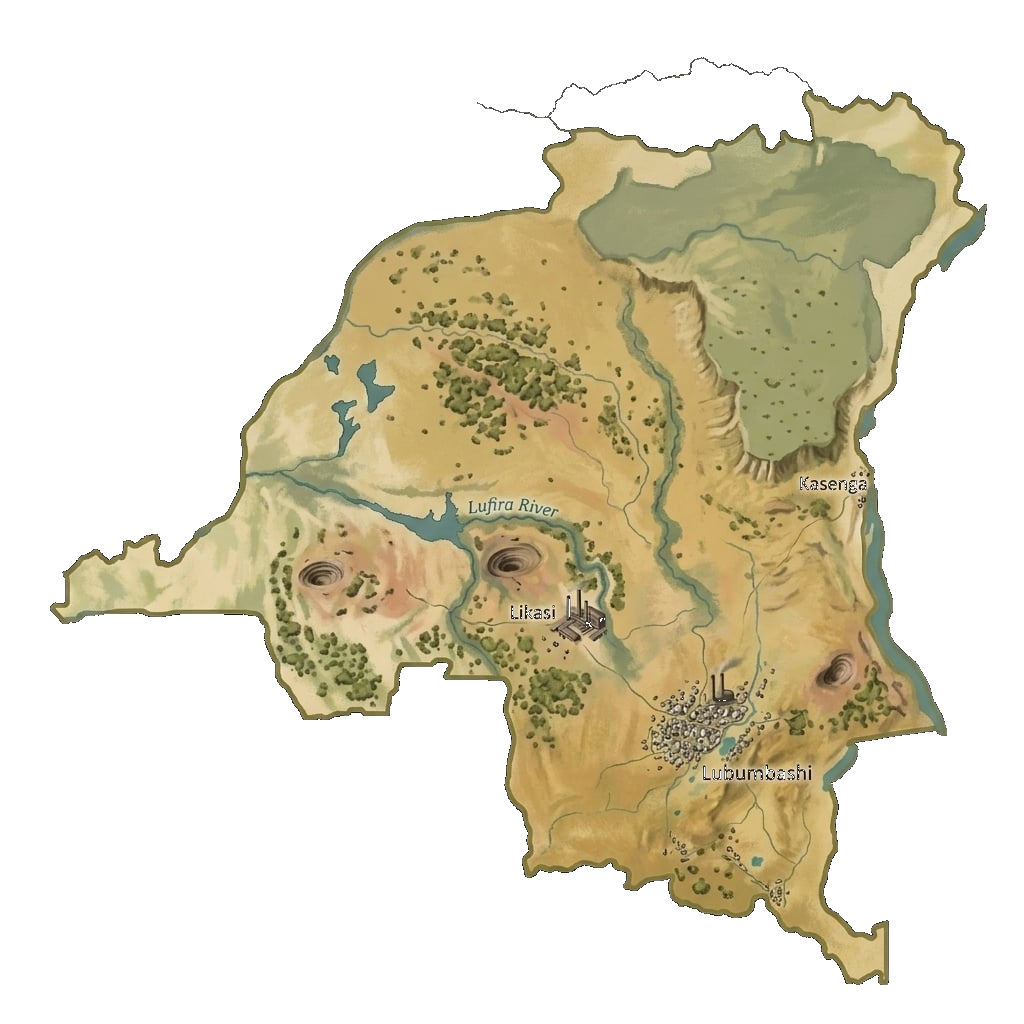
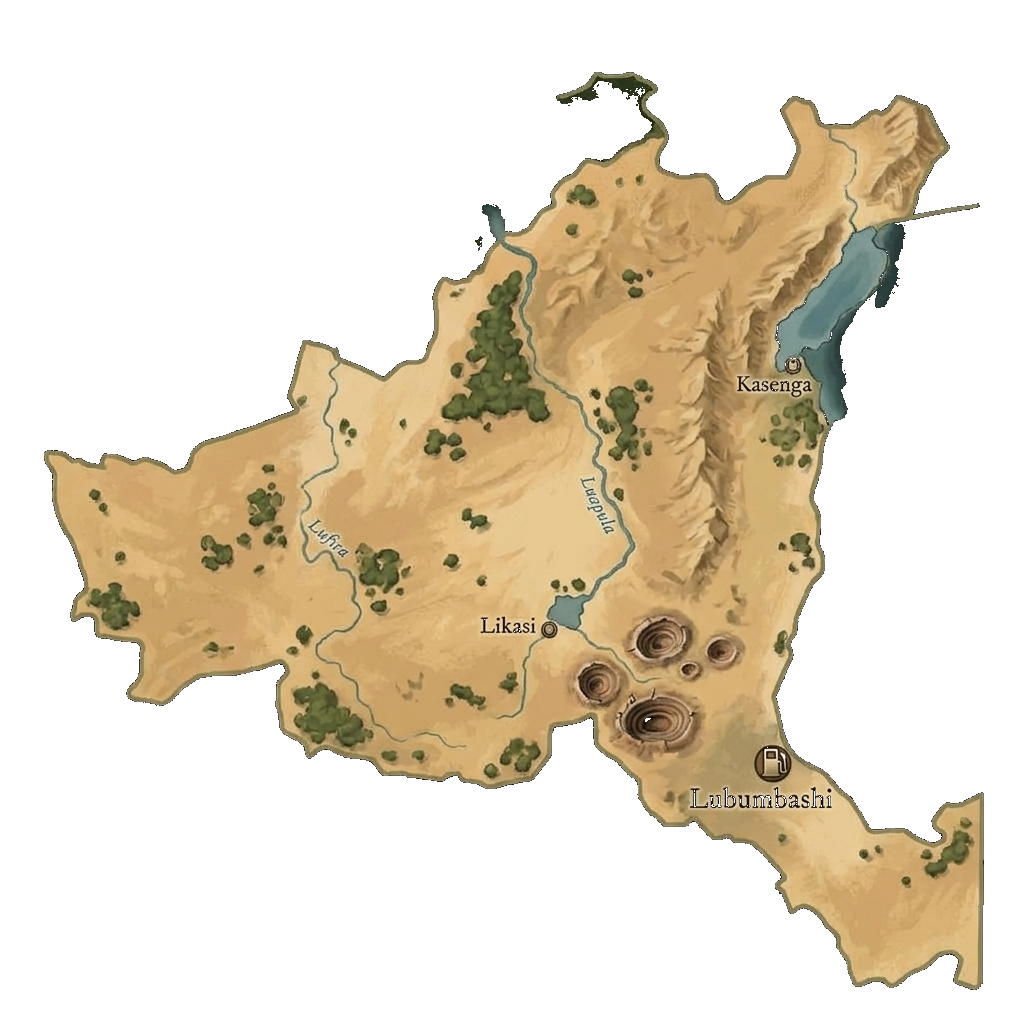
globe: fix Haut-Katanga province map (was rendering the whole DRC)
Eddie reported the Haut-Katanga image as "broken". Diagnosis: the
existing JPEG source was painted with the WHOLE DRC outline, not
just the Haut-Katanga province shape — so the chroma-keyed PNG
showed the entire country instead of the southern mining province.

Re-issued via Nano Banana with explicit geographic constraints:
  - Use Tshopo's JPEG as the STYLE reference (correct painting
    style, NOT shape)
  - Prompt explicitly: "DO NOT copy the reference outline. Draw the
    actual Haut-Katanga province shape — compact, southern, bordered
    east by Lake Mweru + Zambia, south by Zambia."
  - Includes Lubumbashi + Likasi + Kasenga city markers, Copperbelt
    mining craters, Lufira River, miombo woodland tone.

Result: compact southern-DRC province with the correct cities and
mining symbology. Tshopo and other provinces unchanged.

Added ?v=fix cache buster on the mapSrc to force fresh fetch.

diff --git a/pages/globe.html b/pages/globe.html
@@ -5508,7 +5508,7 @@
       'haut-katanga': {
         name: 'Haut-Katanga',
         name_fr: 'Haut-Katanga',
-        mapSrc: '../assets/images/province-haut-katanga-illustrated.png',
+        mapSrc: '../assets/images/province-haut-katanga-illustrated.png?v=fix',
         zolaStart: { x: 25, y: 60 },
         hotspots: [
           { id: 'lubumbashi-prov', icon: '🏘', name: 'Lubumbashi', name_fr: 'Lubumbashi', sub: 'DRC\'s second-largest city · mining capital', sub_fr: 'Deuxième ville de la RDC · capitale minière', x: 22, y: 72,
